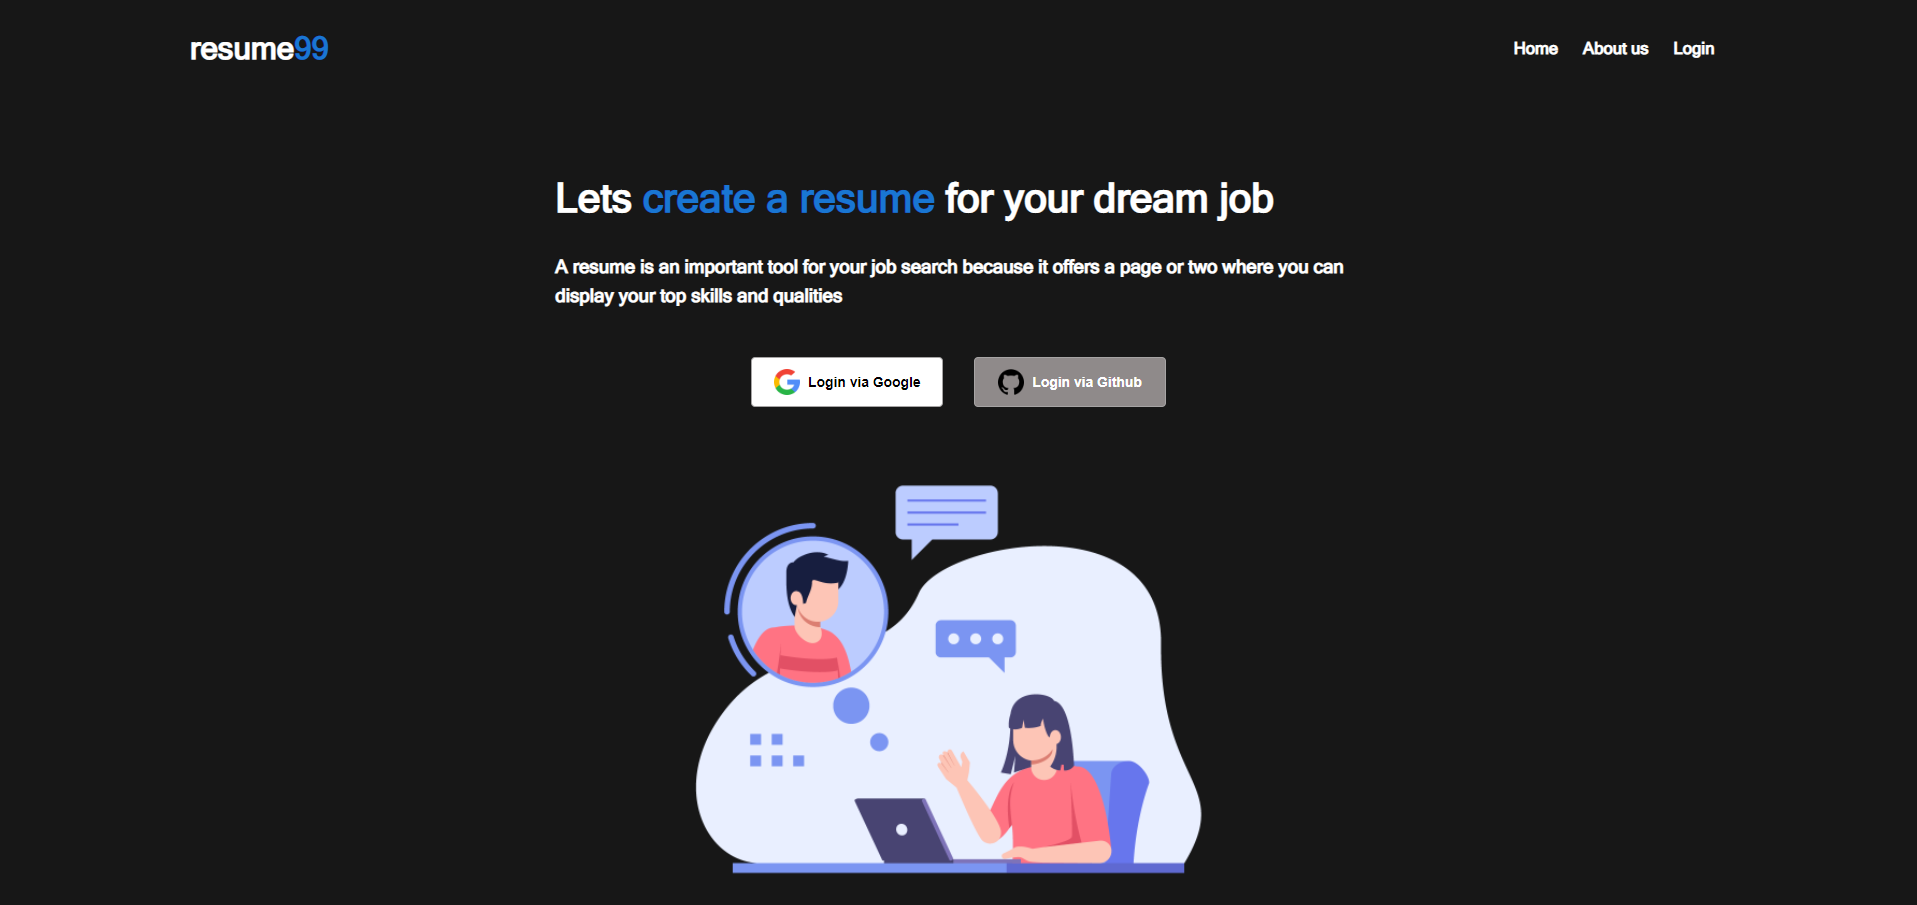
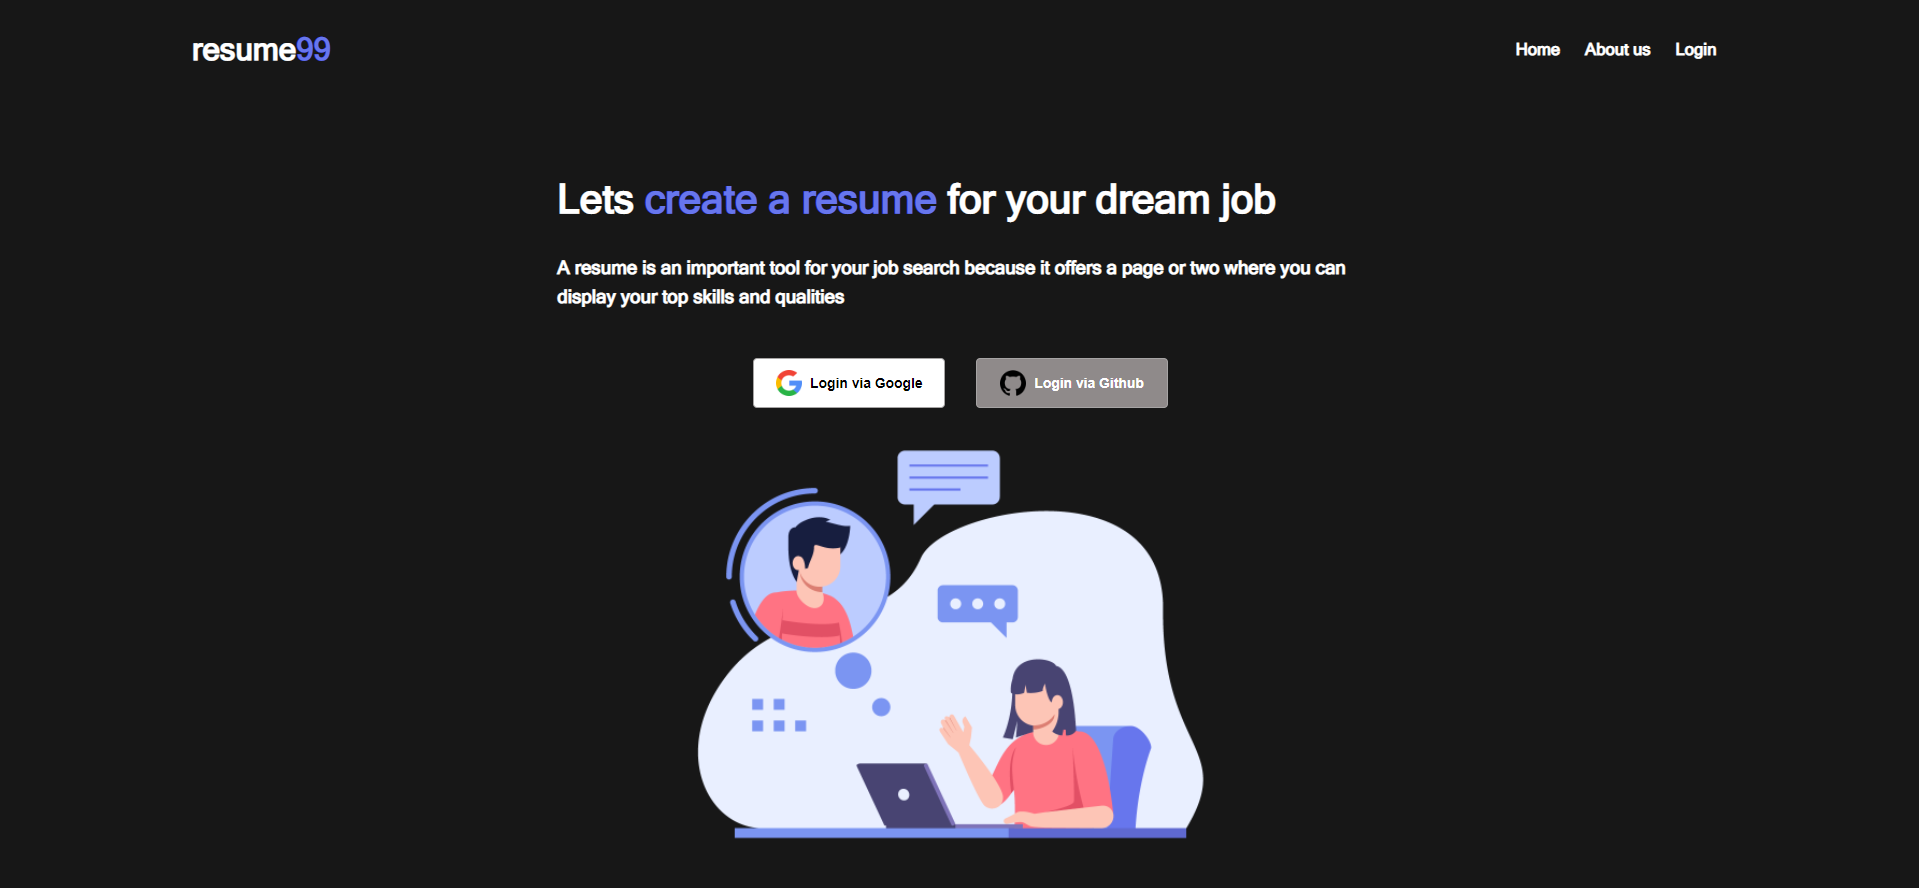
save commit

diff --git a/src/Dashboard.js b/src/Dashboard.js
@@ -9,19 +9,19 @@ import { useNavigate } from 'react-router-dom';
 import toast, { Toaster } from 'react-hot-toast';
 import { addDoc, collection, where } from "firebase/firestore";
 import { db } from './config';
-import { v4 as uuidv4 } from 'uuid';
 import formatfile from './format.txt'
-import {onSnapshot,query } from 'firebase/firestore';
+import { onSnapshot, query } from 'firebase/firestore';
+import add from './asset/add.png'
+import edit from './asset/edit.png'
+
 
 export const Dashboard = () => {
     const [getall, setgetall] = React.useState(null)
-    const qr =query(collection(db, "resumes"), where("userid", "==", JSON.parse(localStorage.getItem('user')).uid));
+    const qr = query(collection(db, "resumes"), where("userid", "==", JSON.parse(localStorage.getItem('user')).uid));
     React.useEffect(
         () => {
-            onSnapshot(qr, (snapshot) => setgetall(snapshot.docs.map((doc) => doc.data())))
-        }
-        , []);
-        console.log(getall);
+            onSnapshot(qr, (snapshot) => setgetall(snapshot.docs.map((doc) => ({ ...{ id: doc.id }, ...doc.data() }))))
+        }, []);
     const navigate = useNavigate();
     const [open, setOpen] = React.useState(false);
     const [name, setName] = React.useState('')
@@ -42,27 +42,27 @@ export const Dashboard = () => {
         try {
             const docRef = await addDoc(collection(db, "resumes"), {
                 userid: JSON.parse(localStorage.getItem('user')).uid,
-                resumename: uuidv4(),
+                resumename: name,
                 resumedata: sendtemp
             });
-
-            console.log("Document written with ID: ", docRef.id);
+            navigate(`/edit/${docRef.id}`)
         } catch (e) {
             console.error("Error adding document: ", e);
         }
-        navigate(`/edit/${name}`)
     };
     const handleCancelClose = () => {
         setOpen(false);
     };
-
+    function handleResumeclick(e){
+        navigate(`/edit/${e}`)
+    }
 
     return (
-        <div className='dashboard'>
+        <div className='dashboard' style={{ height: '85vh', width: 'inherit', overflowY: 'scroll', display: 'flex', flexDirection: 'row', gap: '30px', flexWrap: 'wrap', alignContent: 'flex-start' }}>
             <Toaster />
             <div className='card_create'>
-                <Button variant="outlined" onClick={handleClickOpen} style={{ height: '370px', width: 'fit-content', padding: '0 41px', backgroundColor: '#303030', border: 'none' }}>
-                    Create a new resume
+                <Button variant="outlined" onClick={handleClickOpen} style={{ height: '370px', padding: '0 41px', backgroundColor: '#303030', border: 'none', margin: 'auto',width: '260px', }}>
+                    <img style={{width:'65px'}} src={add} alt="" />
                 </Button>
                 <Dialog open={open} onClose={handleClose}>
                     <DialogContent>
@@ -91,6 +91,18 @@ export const Dashboard = () => {
                 <p style={{ marginTop: '5px' }}>Create New Resume</p>
                 <p style={{ fontSize: '13px', marginTop: '-6px' }}>Start from scratch</p>
             </div>
+            {
+                getall?.map(item => {
+                    return (
+                        <div key={item.resumename} className='card_create'>
+                            <Button id={item.id} variant="outlined" onClick={(e)=>handleResumeclick(e.target.id)} style={{ height: '370px', width: '260px', padding: '0 41px', backgroundColor: '#303030', border: 'none', color: 'white', fontWeight: 'bold', margin: 'auto' }}>
+                              <img src={edit} alt="" />
+                            </Button>
+                            <p style={{ marginTop: '5px' }}>{item.resumename}</p>
+                            <p style={{ fontSize: '13px', marginTop: '-6px' }}>Edit this resume</p>
+                        </div>)
+                })
+            }
         </div>
     )
 }

diff --git a/src/components/LoggedNav.js b/src/components/LoggedNav.js
@@ -1,13 +1,86 @@
 import React from 'react'
+import Avatar from "@mui/material/Avatar";
+import Menu from "@mui/material/Menu";
+import MenuItem from "@mui/material/MenuItem";
+import IconButton from "@mui/material/IconButton";
+import Tooltip from "@mui/material/Tooltip";
+import Box from "@mui/material/Box";
 
 export const LoggedNav = (props) => {
+  const [anchorEl, setAnchorEl] = React.useState(null);
+  const open = Boolean(anchorEl);
+  const handleClick = (event) => {
+    setAnchorEl(event.currentTarget);
+  };
+  const handleClose = () => {
+    setAnchorEl(null);
+  };
+
   return (
-    <div style={{ marginTop: '-2px' ,display:'flex',flexDirection:'row',alignItems:'center',justifyContent:'space-between',width:'95%'}}>
+
+    <div className='navbar' style={{ display: 'flex', flexDirection: 'row', alignItems: 'center', justifyContent: 'space-between', padding: '0 10vw' }}>
       <div className="logo">
-        <p style={{ fontWeight: '700', fontSize: '27px', color: 'white', marginLeft: "3.85vw" }}>resume<span style={{ color: '#1976d2' }}>99</span></p>
+        <p style={{ fontWeight: '700', fontSize: '30px', color: 'white' }}>resume<span style={{ color: '#1976d2' }}>99</span></p>
       </div>
-      <div className="userlogo">
-        <img  src={props.userimg}  style={{ width: '45px',borderRadius:'100%' }} alt="" />
+      <div className="tags">
+        <div className="userlogo">
+        <React.Fragment>
+      <Box sx={{ display: "flex", alignItems: "center", textAlign: "center" }}>
+        <Tooltip title="Account settings">
+          <IconButton
+            onClick={handleClick}
+            size="small"
+            sx={{ ml: 2 }}
+            aria-controls={open ? "account-menu" : undefined}
+            aria-haspopup="true"
+            aria-expanded={open ? "true" : undefined}
+          >
+            <Avatar src={(JSON.parse(localStorage.getItem('user'))).photoURL} sx={{ width: 37, height: 37 }}></Avatar>
+          </IconButton>
+        </Tooltip>
+      </Box>
+      <Menu
+        anchorEl={anchorEl}
+        id="account-menu"
+        open={open}
+        onClose={handleClose}
+        onClick={handleClose}
+        PaperProps={{
+          elevation: 0,
+          sx: {
+            overflow: "visible",
+            filter: "drop-shadow(0px 2px 8px rgba(0,0,0,0.32))",
+            mt: 1.5,
+            "& .MuiAvatar-root": {
+              width: 32,
+              height: 32,
+              ml: -0.5,
+              mr: 1
+            },
+            "&:before": {
+              content: '""',
+              display: "block",
+              position: "absolute",
+              top: 0,
+              right: 14,
+              width: 10,
+              height: 10,
+              bgcolor: "background.paper",
+              transform: "translateY(-50%) rotate(45deg)",
+              zIndex: 0
+            }
+          }
+        }}
+        transformOrigin={{ horizontal: "right", vertical: "top" }}
+        anchorOrigin={{ horizontal: "right", vertical: "bottom" }}
+      >
+        <MenuItem onClick={()=>{props.setuser(null);localStorage.removeItem('user')}}>
+          Logout
+        </MenuItem>
+      </Menu>
+    </React.Fragment>
+          {/* <img src={(JSON.parse(localStorage.getItem('user'))).photoURL} style={{ width: '37px', borderRadius: '100%' }} alt="" /> */}
+        </div>
       </div>
     </div>
   )

diff --git a/src/App.js b/src/App.js
@@ -1,5 +1,4 @@
 import { useEffect, useState } from 'react';
-import './App.css';
 import { Home } from './pages/Home'
 import { Dashboard } from './Dashboard'
 import { ThemeProvider, createTheme } from '@mui/material/styles';
@@ -33,16 +32,16 @@ function App() {
               {
                 (!user) ?
                   <Home setuser={setUser}></Home> :
-                  <div style={{}}>
-                    <LoggedNav userimg={user.photoURL}></LoggedNav>
-                    <div className="dasboard" style={{ display: 'flex', width: '90%', margin: 'auto' }}>
+                  <div>
+                    <LoggedNav setuser={setUser} userimg={user.photoURL}></LoggedNav>
+                    <div className="dasboard" style={{ display: 'flex', width: '98%',justifyContent:'center',alignItems:'center',marginLeft:'2.5vw'}}>
                       <Dashboard></Dashboard>
                     </div>
                   </div>
               }
             </>} />
 
-            <Route path="/edit/*" element={<Edit />} />
+            <Route path="/edit/:id" element={<Edit />} />
 
           </Routes>
         </ThemeProvider>

diff --git a/src/components/HomeSection.js b/src/components/HomeSection.js
@@ -3,7 +3,7 @@ import React from 'react'
 export const HomeSection = () => {
   return (
     <div style={{marginTop:'75px'}}>
-        <h1 style={{width:'775px',margin:'auto',marginBottom:'29px',fontSize:'39px'}}> Lets <span style={{color:'#1976d2'}}>create a resume </span> for your dream job</h1>
+        <h1 style={{width:'775px',margin:'auto',marginBottom:'29px',fontSize:'39px'}}> Lets <span style={{color:'rgb(103,118,237)'}}>create a resume </span> for your dream job</h1>
         <h4 style={{width:'775px',margin:'auto',lineHeight:'28px',fontSize:'18px'}}>A resume is an important tool for your job search because it offers a page or two where you can display your top skills and qualities</h4>
     </div>
   )

diff --git a/src/components/Navbar.js b/src/components/Navbar.js
@@ -4,7 +4,7 @@ export const Navbar = () => {
   return (
     <div className='navbar' style={{display:'flex',flexDirection:'row',alignItems:'center',justifyContent:'space-between',padding:'0 10vw'}}>
         <div className="logo">
-            <p style={{fontWeight:'700',fontSize:'30px',color:'white'}}>resume<span style={{color:'#1976d2'}}>99</span></p>
+            <p style={{fontWeight:'700',fontSize:'30px',color:'white'}}>resume<span style={{color:'rgb(103,118,237)'}}>99</span></p>
         </div>
         <div className="tags">
             <a href="/" style={{fontFamily:'Helvetica Neue',fontSize:'16px',fontWeight:'700',textDecoration:'none',margin:'0 12px',color:'white'}}>Home</a>

diff --git a/src/Pages/Home.js b/src/Pages/Home.js
@@ -33,7 +33,7 @@ export const Home = (props) => {
                 <AutBtn name="Login via Github" img={github} col="rgb(143 138 138)" textcol="white" onc={githubLogin}></AutBtn>
             </div>
             <div className="image" style={{width:"100%",display:'flex',justifyContent:'center'}}>
-            <img style={{ width: '620px', margin:'auto',marginTop:'-52px'}} src={bg} alt="" />
+            <img style={{ width: '620px', margin:'auto',marginTop:'-86px'}} src={bg} alt="" />
             </div>
         </div>
     )

diff --git a/src/index.css b/src/index.css
@@ -28,5 +28,5 @@ body {
 {
 	border-radius: 5px;
 	-webkit-box-shadow: inset 0 0 6px rgba(0,0,0,.3);
-	background-color: rgb(165, 165, 165);
+	background-color: rgb(71, 71, 71);
 }
